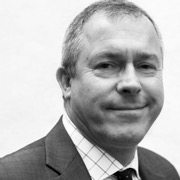
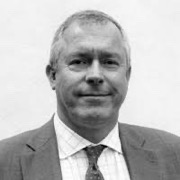
Hero: Tim steps out of the arch and into the scene
Cut out of the studio background with macOS Vision, edges defringed,
saved as a 75 KB transparent WebP. He stands backlit by the low sun with
a gold rim of light, jacket dissolving into the sea, and drifts gently
with the pointer. Header turns frosted navy while scrolling over dark
openings. New smaller photo of Tim used for the header and byline avatars.

diff --git a/assets/styles.css b/assets/styles.css
@@ -175,7 +175,7 @@ details .answer p:last-child { margin-bottom: 0; }
 /* ============ Hero: "The view from here" ============ */
 .hero {
   --h: 80%;              /* horizon height */
-  --sx: 62%;             /* sun position, set by script to sit at the arch's edge */
+  --sx: 62%;             /* sun position, set by script to sit behind Tim's shoulder */
   --ivory: #f7f1e3;
   --sun: #e9c46a;
   position: relative; isolation: isolate; overflow: hidden;
@@ -231,17 +231,22 @@ details .answer p:last-child { margin-bottom: 0; }
 .hero-link:hover { color: #fff; border-color: var(--sun); }
 .hero :focus-visible { outline-color: var(--sun); }
 
-.arch { margin: 0; position: relative; justify-self: center; width: min(100%, 400px); perspective: 900px; }
-.arch-frame { position: relative; aspect-ratio: 3 / 4.3; border-radius: 999px 999px 6px 6px; overflow: hidden;
-  box-shadow: 0 40px 80px -30px rgba(0,0,0,.7); transform: rotateX(var(--rx, 0deg)) rotateY(var(--ry, 0deg)); transition: transform .5s var(--ease-soft); }
-.arch-frame img { width: 100%; height: 100%; object-fit: cover; object-position: 50% 18%; filter: contrast(1.06) brightness(.98); }
-.arch-frame::after { content: ""; position: absolute; inset: 0; border-radius: inherit;
-  background: radial-gradient(80% 60% at var(--gx, 70%) var(--gy, 85%), rgba(233,196,106,.32), transparent 60%), linear-gradient(180deg, transparent 55%, rgba(11,34,51,.55));
-  mix-blend-mode: soft-light; }
-.arch::before { content: ""; position: absolute; inset: -14px -14px 0 -14px; border: 1px solid rgba(233,196,106,.6); border-bottom: 0; border-radius: 999px 999px 0 0; }
+/* Tim stands in the scene, backlit by the low sun */
+.portrait { position: relative; z-index: 0; margin: 0 clamp(-48px, -3vw, 0px) clamp(-110px, -8vw, -40px) 0; justify-self: end; align-self: end; width: clamp(300px, 34vw, 480px); }
+.portrait-img { position: relative; display: block; width: 100%; height: auto;
+  transform: translate3d(var(--px, 0px), var(--py, 0px), 0); transition: transform .9s var(--ease-soft);
+  filter: contrast(1.06) sepia(.08) drop-shadow(0 0 12px rgba(233,196,106,.3)) drop-shadow(-14px -4px 34px rgba(233,170,100,.2));
+  -webkit-mask-image: linear-gradient(to bottom, #000 56%, transparent 97%), linear-gradient(to right, transparent 0, #000 16%, #000 84%, transparent 100%);
+  -webkit-mask-composite: source-in;
+  mask-image: linear-gradient(to bottom, #000 56%, transparent 97%), linear-gradient(to right, transparent 0, #000 16%, #000 84%, transparent 100%);
+  mask-composite: intersect; }
+.portrait-glow { position: absolute; left: 4%; right: 8%; top: 4%; height: 62%; border-radius: 50%; pointer-events: none;
+  background: radial-gradient(closest-side, rgba(240,200,120,.34), rgba(233,160,90,.12) 62%, transparent);
+  transform: translate3d(calc(var(--px, 0px) * -0.6), calc(var(--py, 0px) * -0.6), 0); transition: transform .9s var(--ease-soft); }
 
 .hero-proof { list-style: none; display: grid; grid-template-columns: repeat(3, 1fr); gap: 24px; margin: 0 auto; padding-top: 22px; padding-bottom: 26px;
   border-top: 1px solid rgba(247,241,227,.16); font-size: .88rem; color: rgba(247,241,227,.7); position: relative; }
+.hero-proof li { position: relative; z-index: 1; }
 .hero-proof strong { display: block; color: var(--ivory); font-family: var(--serif); font-weight: 500; font-size: 1.05rem; }
 
 /* Entrance */
@@ -256,8 +261,8 @@ details .answer p:last-child { margin-bottom: 0; }
   .hero h1 .line:nth-child(2) > span { animation-delay: .4s; }
   .hero-lead { animation: fadeUp .9s ease-out .6s both; }
   .hero-cta { animation: fadeUp .9s ease-out .75s both; }
-  .arch-frame { animation: archIn 1.4s var(--ease-soft) .2s both; }
-  .arch::before { animation: fadeIn 1.2s ease-out .8s both; }
+  .portrait-img { animation: portraitIn 1.6s var(--ease-settle) .2s both; }
+  .portrait-glow { animation: fadeIn 2s ease-out .5s both; }
     .hero-proof { animation: fadeIn 1s ease-out 1s both; }
 }
 @keyframes fadeIn { from { opacity: 0; } }
@@ -265,15 +270,15 @@ details .answer p:last-child { margin-bottom: 0; }
 @keyframes lineUp { from { transform: translateY(110%); } }
 @keyframes rise { from { transform: translateY(70px) scale(.92); opacity: .2; } }
 @keyframes draw { from { transform: scaleX(0); } }
-@keyframes archIn { from { clip-path: inset(100% 0 0 0 round 999px 999px 6px 6px); transform: translateY(30px); } to { clip-path: inset(0 0 0 0 round 999px 999px 6px 6px); } }
-@media (prefers-reduced-motion: reduce) { .glitter::before { animation: none; } .arch-frame { transition: none; } }
+@keyframes portraitIn { from { opacity: 0; translate: 0 40px; } }
+@media (prefers-reduced-motion: reduce) { .glitter::before { animation: none; } .portrait-img, .portrait-glow { transition: none; } }
 
 @media (max-width: 900px) {
   .hero { --h: 74%; padding-top: 44px; min-height: 0; }
   .hero-grid { grid-template-columns: 1fr; gap: 36px; }
   .hero-copy { padding-bottom: 0; }
   .hero-eyebrow::before { display: none; }
-      .arch { width: min(78%, 320px); }
+  .portrait { justify-self: center; margin: 0 0 -60px; width: min(82%, 340px); }
     .hero-proof { grid-template-columns: 1fr; gap: 12px; margin-top: 40px; }
   .hero-proof li { display: flex; gap: 8px; align-items: baseline; flex-wrap: wrap; }
   .hero-proof strong { display: inline; font-size: 1rem; }
@@ -528,3 +533,5 @@ p, li, .svc-desc { text-wrap: pretty; }
 .hero-lead { text-wrap: balance; }
 .page-head .eyebrow { font-size: .8rem; max-width: none; margin-bottom: .8em; }
 @media (max-width: 820px) { .svc-title { font-size: 1.2rem; } .svc-lead .svc-title { font-size: 1.5rem; } }
+/* Over a dark opening but scrolled: frosted dusk, so content never collides with the header */
+.js .dark-top .site-header.is-scrolled:not(.is-solid) { background: rgba(10,31,46,.72); -webkit-backdrop-filter: blur(12px); backdrop-filter: blur(12px); border-bottom-color: rgba(247,241,227,.08); }

diff --git a/assets/site.js b/assets/site.js
@@ -93,31 +93,30 @@ if (location.hash) {
 // Hero
 const hero = document.querySelector(".hero");
 if (hero) {
-  // Place the sun just off the arch's left edge, at any screen width
+  // Place the sun behind Tim's shoulder, at any screen width
   const placeSun = () => {
-    const arch = hero.querySelector(".arch-frame");
-    if (!arch) return;
-    const h = hero.getBoundingClientRect(), a = arch.getBoundingClientRect();
-    hero.style.setProperty("--sx", (((a.left - h.left) - a.width * 0.02) / h.width * 100).toFixed(2) + "%");
+    const img = hero.querySelector(".portrait-img");
+    if (!img) return;
+    const h = hero.getBoundingClientRect(), a = img.getBoundingClientRect();
+    hero.style.setProperty("--sx", (((a.left - h.left) + a.width * 0.02) / h.width * 100).toFixed(2) + "%");
   };
   placeSun();
   addEventListener("resize", placeSun);
 
   if (!calm) {
-    // Arch tilts towards the pointer; warm light follows it. Fine pointers only.
-    const frame = hero.querySelector(".arch-frame");
-    if (frame && matchMedia("(hover: hover) and (pointer: fine)").matches) {
+    // Tim drifts gently with the pointer; his backlight moves the other way. Fine pointers only.
+    const portrait = hero.querySelector(".portrait");
+    if (portrait && matchMedia("(hover: hover) and (pointer: fine)").matches) {
       hero.addEventListener("pointermove", (e) => {
-        const r = frame.getBoundingClientRect();
+        const r = hero.getBoundingClientRect();
         const x = (e.clientX - r.left) / r.width - 0.5;
         const y = (e.clientY - r.top) / r.height - 0.5;
-        frame.style.setProperty("--ry", (x * 7).toFixed(2) + "deg");
-        frame.style.setProperty("--rx", (-y * 5).toFixed(2) + "deg");
-        frame.style.setProperty("--gx", ((x + 0.5) * 100).toFixed(1) + "%");
-        frame.style.setProperty("--gy", ((y + 0.5) * 100).toFixed(1) + "%");
+        portrait.style.setProperty("--px", (x * 14).toFixed(1) + "px");
+        portrait.style.setProperty("--py", (y * 8).toFixed(1) + "px");
       });
       hero.addEventListener("pointerleave", () => {
-        ["--rx", "--ry", "--gx", "--gy"].forEach((p) => frame.style.removeProperty(p));
+        portrait.style.removeProperty("--px");
+        portrait.style.removeProperty("--py");
       });
     }
     // Scene drifts slower than the page; the sun sinks into the sea; copy fades.

diff --git a/index.html b/index.html
@@ -19,7 +19,7 @@
 <link rel="preconnect" href="https://fonts.gstatic.com" crossorigin>
 <link href="https://fonts.googleapis.com/css2?family=Fraunces:opsz,wght@9..144,400;9..144,500&family=Inter:wght@400;600&display=swap" rel="stylesheet">
 <link rel="stylesheet" href="/assets/styles.css">
-<link rel="preload" as="image" href="/assets/tim-yates.jpg" fetchpriority="high">
+<link rel="preload" as="image" href="/assets/tim-cutout.webp" type="image/webp" fetchpriority="high">
 <script type="application/ld+json">{"@context": "https://schema.org", "@type": "Person", "name": "Tim Yates", "jobTitle": "Financial adviser", "worksFor": {"@type": "Organization", "name": "The Spectrum IFA Group", "url": "https://spectrum-ifa.com/"}, "email": "tim.yates@spectrum-ifa.com", "telephone": "+33615336083", "address": {"@type": "PostalAddress", "streetAddress": "Mediathel, 120 Route des Macarons", "postalCode": "06560", "addressLocality": "Valbonne", "addressCountry": "FR"}, "alumniOf": "University of Liverpool"}</script>
 </head>
 <body class="dark-top">
@@ -27,7 +27,7 @@
 <header class="site-header">
   <div class="wrap">
     <a class="brand" href="/" aria-label="Tim Yates, home">
-      <img src="/assets/tim-square.jpg" alt="" width="40" height="40">
+      <img src="/assets/tim-avatar.jpg" alt="" width="40" height="40">
       <div><strong>Tim Yates</strong><span>Financial adviser · Côte d'Azur</span></div>
     </a>
     <button class="menu-toggle" aria-expanded="false" aria-controls="nav">Menu</button>
@@ -57,10 +57,9 @@
         <a class="hero-link" href="#services">See how I help</a>
       </div>
     </div>
-    <figure class="arch" data-tilt>
-      <div class="arch-frame">
-        <img src="/assets/tim-yates.jpg" alt="Portrait of Tim Yates" width="600" height="900" fetchpriority="high">
-      </div>
+    <figure class="portrait">
+      <div class="portrait-glow" aria-hidden="true"></div>
+      <img class="portrait-img" src="/assets/tim-cutout.webp" alt="Portrait of Tim Yates" width="666" height="1000" fetchpriority="high">
     </figure>
   </div>
   <ul class="hero-proof wrap">

diff --git a/blog/asset-backed-mortgages/index.html b/blog/asset-backed-mortgages/index.html
@@ -26,7 +26,7 @@
 <header class="site-header">
   <div class="wrap">
     <a class="brand" href="/" aria-label="Tim Yates, home">
-      <img src="/assets/tim-square.jpg" alt="" width="40" height="40">
+      <img src="/assets/tim-avatar.jpg" alt="" width="40" height="40">
       <div><strong>Tim Yates</strong><span>Financial adviser · Côte d'Azur</span></div>
     </a>
     <button class="menu-toggle" aria-expanded="false" aria-controls="nav">Menu</button>
@@ -71,7 +71,7 @@
     </div>
     <div class="note"><strong>General information, not advice.</strong> This article explains how things generally work. Rules and rates change, and the right answer depends on your circumstances, so please talk to me before acting on it.</div>
     <div class="author-box">
-      <img src="/assets/tim-square.jpg" alt="" width="72" height="72" loading="lazy">
+      <img src="/assets/tim-avatar.jpg" alt="" width="72" height="72" loading="lazy">
       <p><strong>Tim Yates</strong> is a founding partner of The Spectrum IFA Group, based on the Côte d'Azur. <a href="/#contact">Get in touch</a></p>
     </div>
   </div>

diff --git a/blog/assurance-vie-explained/index.html b/blog/assurance-vie-explained/index.html
@@ -26,7 +26,7 @@
 <header class="site-header">
   <div class="wrap">
     <a class="brand" href="/" aria-label="Tim Yates, home">
-      <img src="/assets/tim-square.jpg" alt="" width="40" height="40">
+      <img src="/assets/tim-avatar.jpg" alt="" width="40" height="40">
       <div><strong>Tim Yates</strong><span>Financial adviser · Côte d'Azur</span></div>
     </a>
     <button class="menu-toggle" aria-expanded="false" aria-controls="nav">Menu</button>
@@ -70,7 +70,7 @@
     </div>
     <div class="note"><strong>General information, not advice.</strong> This article explains how things generally work. Rules and rates change, and the right answer depends on your circumstances, so please talk to me before acting on it.</div>
     <div class="author-box">
-      <img src="/assets/tim-square.jpg" alt="" width="72" height="72" loading="lazy">
+      <img src="/assets/tim-avatar.jpg" alt="" width="72" height="72" loading="lazy">
       <p><strong>Tim Yates</strong> is a founding partner of The Spectrum IFA Group, based on the Côte d'Azur. <a href="/#contact">Get in touch</a></p>
     </div>
   </div>

diff --git a/blog/buying-a-home-in-france-with-a-mortgage/index.html b/blog/buying-a-home-in-france-with-a-mortgage/index.html
@@ -26,7 +26,7 @@
 <header class="site-header">
   <div class="wrap">
     <a class="brand" href="/" aria-label="Tim Yates, home">
-      <img src="/assets/tim-square.jpg" alt="" width="40" height="40">
+      <img src="/assets/tim-avatar.jpg" alt="" width="40" height="40">
       <div><strong>Tim Yates</strong><span>Financial adviser · Côte d'Azur</span></div>
     </a>
     <button class="menu-toggle" aria-expanded="false" aria-controls="nav">Menu</button>
@@ -72,7 +72,7 @@
     </div>
     <div class="note"><strong>General information, not advice.</strong> This article explains how things generally work. Rules and rates change, and the right answer depends on your circumstances, so please talk to me before acting on it.</div>
     <div class="author-box">
-      <img src="/assets/tim-square.jpg" alt="" width="72" height="72" loading="lazy">
+      <img src="/assets/tim-avatar.jpg" alt="" width="72" height="72" loading="lazy">
       <p><strong>Tim Yates</strong> is a founding partner of The Spectrum IFA Group, based on the Côte d'Azur. <a href="/#contact">Get in touch</a></p>
     </div>
   </div>

diff --git a/blog/moving-to-france-money-checklist/index.html b/blog/moving-to-france-money-checklist/index.html
@@ -26,7 +26,7 @@
 <header class="site-header">
   <div class="wrap">
     <a class="brand" href="/" aria-label="Tim Yates, home">
-      <img src="/assets/tim-square.jpg" alt="" width="40" height="40">
+      <img src="/assets/tim-avatar.jpg" alt="" width="40" height="40">
       <div><strong>Tim Yates</strong><span>Financial adviser · Côte d'Azur</span></div>
     </a>
     <button class="menu-toggle" aria-expanded="false" aria-controls="nav">Menu</button>
@@ -70,7 +70,7 @@
     </div>
     <div class="note"><strong>General information, not advice.</strong> This article explains how things generally work. Rules and rates change, and the right answer depends on your circumstances, so please talk to me before acting on it.</div>
     <div class="author-box">
-      <img src="/assets/tim-square.jpg" alt="" width="72" height="72" loading="lazy">
+      <img src="/assets/tim-avatar.jpg" alt="" width="72" height="72" loading="lazy">
       <p><strong>Tim Yates</strong> is a founding partner of The Spectrum IFA Group, based on the Côte d'Azur. <a href="/#contact">Get in touch</a></p>
     </div>
   </div>

diff --git a/404.html b/404.html
@@ -25,7 +25,7 @@
 <header class="site-header">
   <div class="wrap">
     <a class="brand" href="/" aria-label="Tim Yates, home">
-      <img src="/assets/tim-square.jpg" alt="" width="40" height="40">
+      <img src="/assets/tim-avatar.jpg" alt="" width="40" height="40">
       <div><strong>Tim Yates</strong><span>Financial adviser · Côte d'Azur</span></div>
     </a>
     <button class="menu-toggle" aria-expanded="false" aria-controls="nav">Menu</button>

diff --git a/blog/index.html b/blog/index.html
@@ -25,7 +25,7 @@
 <header class="site-header">
   <div class="wrap">
     <a class="brand" href="/" aria-label="Tim Yates, home">
-      <img src="/assets/tim-square.jpg" alt="" width="40" height="40">
+      <img src="/assets/tim-avatar.jpg" alt="" width="40" height="40">
       <div><strong>Tim Yates</strong><span>Financial adviser · Côte d'Azur</span></div>
     </a>
     <button class="menu-toggle" aria-expanded="false" aria-controls="nav">Menu</button>

diff --git a/faq/index.html b/faq/index.html
@@ -26,7 +26,7 @@
 <header class="site-header">
   <div class="wrap">
     <a class="brand" href="/" aria-label="Tim Yates, home">
-      <img src="/assets/tim-square.jpg" alt="" width="40" height="40">
+      <img src="/assets/tim-avatar.jpg" alt="" width="40" height="40">
       <div><strong>Tim Yates</strong><span>Financial adviser · Côte d'Azur</span></div>
     </a>
     <button class="menu-toggle" aria-expanded="false" aria-controls="nav">Menu</button>

diff --git a/tools/build.py b/tools/build.py
@@ -39,7 +39,7 @@ def header(current):
 <header class="site-header">
   <div class="wrap">
     <a class="brand" href="/" aria-label="Tim Yates, home">
-      <img src="/assets/tim-square.jpg" alt="" width="40" height="40">
+      <img src="/assets/tim-avatar.jpg" alt="" width="40" height="40">
       <div><strong>Tim Yates</strong><span>Financial adviser · Côte d'Azur</span></div>
     </a>
     <button class="menu-toggle" aria-expanded="false" aria-controls="nav">Menu</button>
@@ -81,7 +81,7 @@ FOOTER = f"""<footer class="site-footer">
 def page(path, title, description, body, current, extra_head="", body_class=""):
     canonical = f'<link rel="canonical" href="{SITE}{path}">' if SITE else ""
     og_url = f'<meta property="og:url" content="{SITE}{path}">' if SITE else ""
-    preload = '<link rel="preload" as="image" href="/assets/tim-yates.jpg" fetchpriority="high">' if path == "/" else ""
+    preload = '<link rel="preload" as="image" href="/assets/tim-cutout.webp" type="image/webp" fetchpriority="high">' if path == "/" else ""
     out = f"""<!doctype html>
 <html lang="en-GB">
 <head>
@@ -223,10 +223,9 @@ def build_home():
         <a class="hero-link" href="#services">See how I help</a>
       </div>
     </div>
-    <figure class="arch" data-tilt>
-      <div class="arch-frame">
-        <img src="/assets/tim-yates.jpg" alt="Portrait of Tim Yates" width="600" height="900" fetchpriority="high">
-      </div>
+    <figure class="portrait">
+      <div class="portrait-glow" aria-hidden="true"></div>
+      <img class="portrait-img" src="/assets/tim-cutout.webp" alt="Portrait of Tim Yates" width="666" height="1000" fetchpriority="high">
     </figure>
   </div>
   <ul class="hero-proof wrap">
@@ -344,7 +343,7 @@ def build_blog():
     </div>
     <div class="note"><strong>General information, not advice.</strong> This article explains how things generally work. Rules and rates change, and the right answer depends on your circumstances, so please talk to me before acting on it.</div>
     <div class="author-box">
-      <img src="/assets/tim-square.jpg" alt="" width="72" height="72" loading="lazy">
+      <img src="/assets/tim-avatar.jpg" alt="" width="72" height="72" loading="lazy">
       <p><strong>Tim Yates</strong> is a founding partner of The Spectrum IFA Group, based on the Côte d'Azur. <a href="/#contact">Get in touch</a></p>
     </div>
   </div>

diff --git a/docs/MOTION.md b/docs/MOTION.md
@@ -2,7 +2,7 @@
 
 **Idea: the tide at dusk.** The site's story is calm: your money settled, your life here unhurried. Motion should feel like the sea at golden hour: things rise and settle, never bounce, never rush. Two recurring motifs come from the hero:
 
-- **Rising.** Content enters upwards, the way the sun rises in the hero and the portrait rises into its arch.
+- **Rising.** Content enters upwards, the way the sun rises in the hero and Tim rises into the scene.
 - **The gold hairline.** The horizon line draws across in the hero; the same line draws in front of every section label, across the top of the contact band, and as the progress line in "How it works".
 
 Code: tokens and components in `assets/styles.css` (section "Motion system"), behaviour in `assets/site.js`. Markup hooks are `data-reveal` attributes written by `tools/build.py`.
@@ -43,11 +43,11 @@ Code: tokens and components in `assets/styles.css` (section "Motion system"), be
 | 0ms | Sky fades in (1.4s), sun rises 70px into place (2s) |
 | 100ms | Horizon hairline draws outward from the sun (1.4s, draw) |
 | 150ms | Eyebrow rises |
-| 200ms | Portrait wipes up into the arch (clip-path, 1.4s) |
+| 200ms | Tim rises 40px into the scene and fades in (1.6s); his backlight glows up from 500ms |
 | 250 / 400ms | Headline lines slide up out of their masks |
 | 600ms | Lead paragraph rises |
 | 750ms | Buttons rise |
-| 800ms+ | Arch outline, name card and proof strip fade in |
+| 1000ms | Proof strip fades in |
 
 **Inner pages:** the page header reveals at load: eyebrow hairline draws (0ms), heading wipes up (80ms), intro rises (160ms). Under 1s.
 
@@ -61,7 +61,7 @@ Code: tokens and components in `assets/styles.css` (section "Motion system"), be
 
 ## Image transitions
 
-- **Hero portrait:** wipes up into the arch (clip-path) while rising 30px.
+- **Hero portrait:** Tim is cut out of his background and stands in the dusk scene, backlit by a gold rim of light, his jacket dissolving into the sea. He rises 40px into place on load.
 - **Utility `data-reveal="image"`:** for any future photo. The frame wipes up (`clip-path`) while the image inside settles from `scale(1.08)` to 1 over 1.2s. Use it for at most one image per screen.
 - **Logos and avatars:** plain fade. Logos should never perform.
 
@@ -102,11 +102,11 @@ The only pinned moment, because it's the only place where the order matters.
 | Cards (services, articles) | Hover | Lift 4px, border turns gold, soft shadow. "Read more" underline draws left to right |
 | Nav links | Hover | Gold underline draws from the left (`scaleX`), retracts to the right on leave |
 | Contact links (dark band) | Hover | Underline draws, as nav |
-| Header | Scroll | After 8px, a hairline shadow appears (`--dur-hover`) so the header separates from the content |
+| Header | Scroll | Over a dark opening it starts transparent, turns frosted navy once you scroll, and becomes light past the dark section. On light pages a soft shadow appears after 8px |
 | Mobile menu | Open | Panel fades and drops 12px (`--dur-ui`), links follow 35ms apart. Label swaps Menu/Close |
 | FAQ | Open | Plus turns to minus (vertical bar rotates 90° and fades); answer height eases open and shut where the browser supports animating to `auto` (Chrome 131+); elsewhere it opens instantly. The answer text rises 8px |
 | Article | Scroll | 2px gold reading-progress bar along the top edge of the window |
-| Hero portrait | Pointer | Arch tilts up to 7°, warm light follows the pointer. Fine pointers only, never on touch |
+| Hero portrait | Pointer | Tim drifts up to 14px with the pointer while his backlight drifts the other way, for depth. Fine pointers only, never on touch |
 | Focus | Keyboard | Focus rings appear instantly. Never animated, never delayed |
 
 ## Transitions between pages
@@ -126,7 +126,7 @@ Sections alternate warm paper and sand backgrounds, with no animated dividers. C
 With `prefers-reduced-motion: reduce`:
 
 - All reveals are shown immediately, with no transforms.
-- The hero is a still image of the scene: no sun rise, shimmer, tilt or scroll drift.
+- The hero is a still image of the scene: no sun rise, shimmer, pointer drift or scroll drift.
 - Page transitions are off.
 - Hover lifts are off; colour changes stay.
 - The process line is full and every step is lit.
